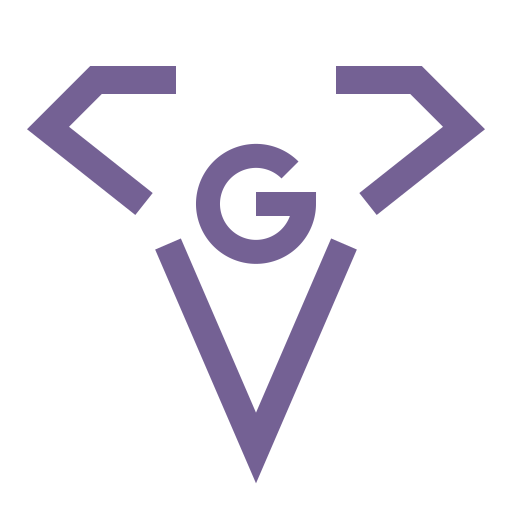
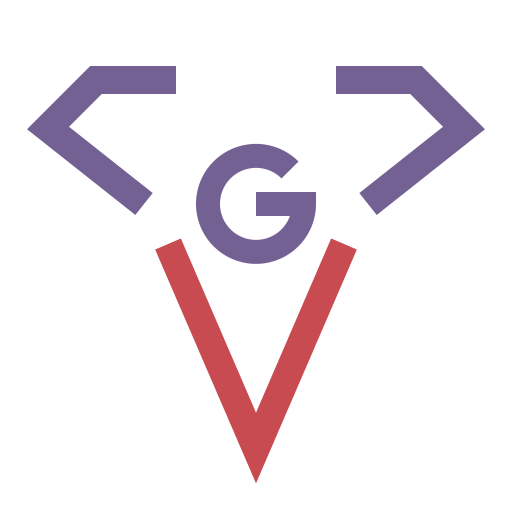
Use purple and red Tiga branding

Changed region(s): [[0.2812, 0.4688, 0.7188, 0.9375]]

diff --git a/tests/python/test_brand_and_readme.py b/tests/python/test_brand_and_readme.py
@@ -27,6 +27,8 @@ def test_mark_is_a_flat_triangular_emblem_with_geometric_g():
     assert len(paths) == 3
     assert paths[0].attrib['d'] == 'M44 20 H24 L12 32 L36 51 M84 20 H104 L116 32 L92 51'
     assert paths[1].attrib['d'] == 'M42 61 L64 112 L86 61'
+    assert paths[1].attrib['stroke'] == '#C84B52'
+    assert all('stroke' not in paths[index].attrib for index in (0, 2))
     assert all('Z' not in p.attrib['d'] for p in paths)
     assert 'A12 12' in paths[2].attrib['d'] and paths[2].attrib['d'].endswith('H64')
     for tag in ('circle', 'text', 'linearGradient', 'radialGradient', 'filter', 'image'):

diff --git a/assets/README.md b/assets/README.md
@@ -1,10 +1,13 @@
 # Tiga identity assets
 
 The canonical vector source is [tiga-mark.svg](tiga-mark.svg). The flat,
-single-color TG emblem places a geometric G between two short angular wings
+two-color TG emblem places a geometric G between two short angular wings
 and a long lower chevron, forming an open triangle. The emblem uses vector paths;
 the G does not depend on an installed font. There are no gradients, shadows
 or decorative layers.
+
+The wings, G and wordmark use muted purple (`#746194`); the lower chevron
+uses red (`#C84B52`). Geometry and stroke widths are identical across variants.
 
 - [tiga-logo.svg](tiga-logo.svg) / [tiga-logo.png](tiga-logo.png): emblem and `Tiga` wordmark.
 - [tiga-mark.svg](tiga-mark.svg) / [tiga-mark.png](tiga-mark.png): standalone emblem.
